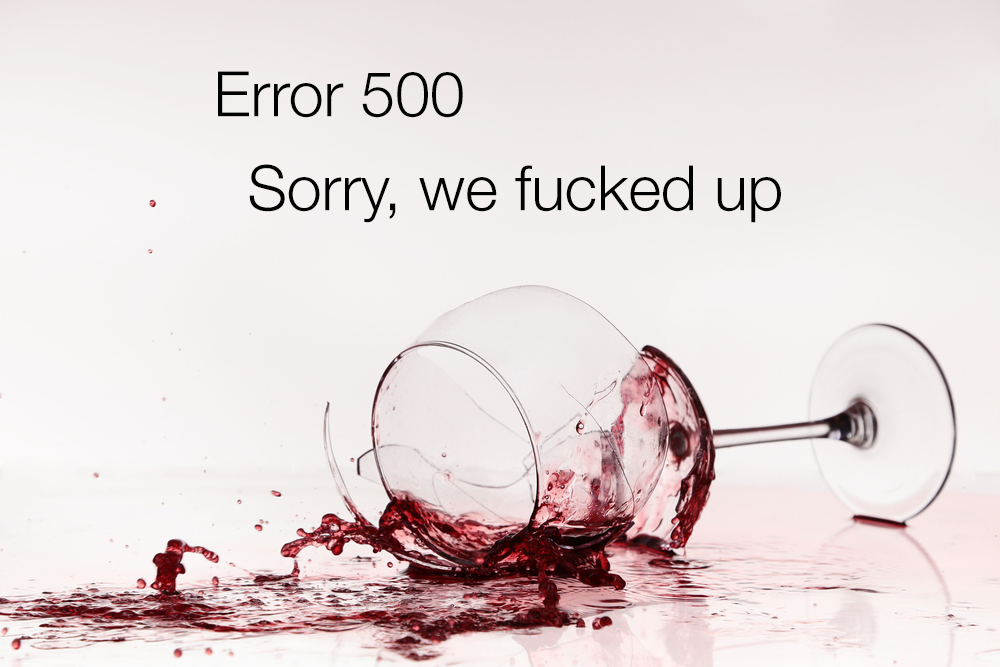
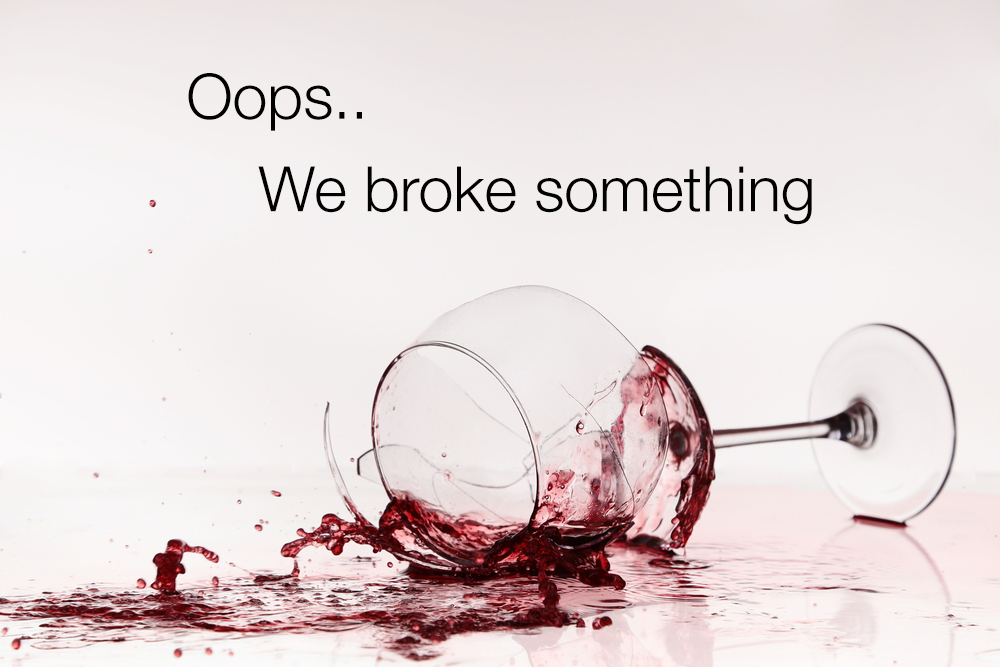
500 fixed

Changed region(s): [[0.248, 0.2399, 0.837, 0.3598], [0.186, 0.09, 0.465, 0.1799]]

diff --git a/public/500.html b/public/500.html
@@ -7,7 +7,7 @@
 
 <body style="text-align: center; background-color: rgba(100,0,0,0.1)">
   <div style="box-shadow: 0px 0px 10px rgba(0,0,0,0.7); border-radius: 30px; width: 900px; height: 600px; margin: auto;">
-    <img src="http://www.randomcheers.com/500.jpg" alt="error" style="width: 100%; height: 100%; border-radius: 30px;">
+    <img src="500.jpg" alt="error" style="width: 100%; height: 100%; border-radius: 30px;">
   </div>
 </body>
 </html>

diff --git a/app/javascript/packs/map.js b/app/javascript/packs/map.js
@@ -82,7 +82,7 @@ if (addressendInput) {
     places({ container: addressendInput });
 }
 
-export { initMapbox, initAutocomplete};
+export { initMapbox };
 
 
 

diff --git a/app/assets/stylesheets/pages/_home.scss b/app/assets/stylesheets/pages/_home.scss
@@ -33,6 +33,7 @@ a.nav-link:hover {
   font-size: 24px;
   margin-bottom: 10px;
   font-family: $sub-headers-font;
+  color: #666666;
 }
 
 .box {
